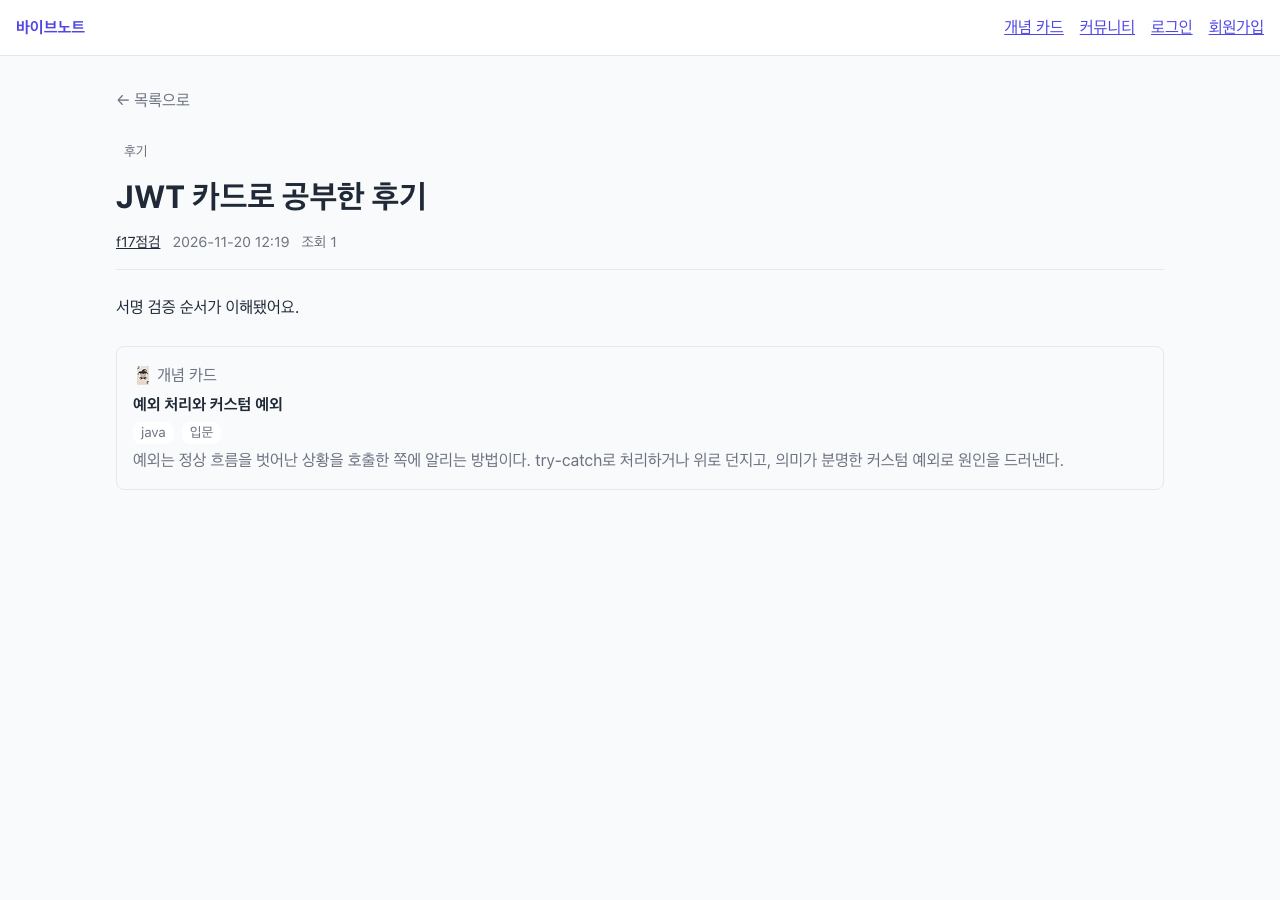
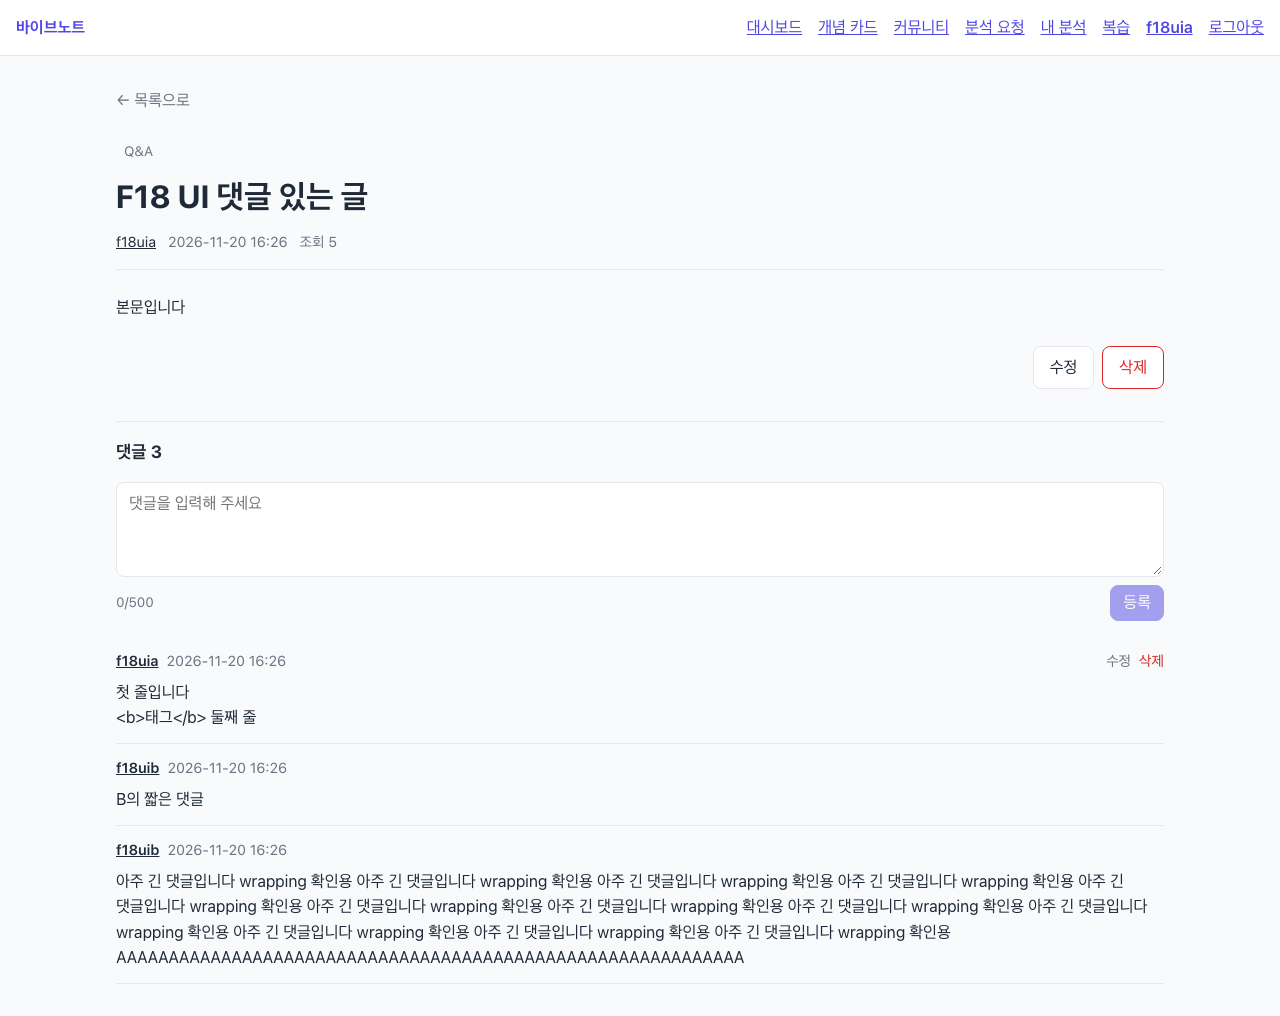
docs(F-18): SC-15 스크린샷(댓글 포함) 갱신, 체크리스트

diff --git a/docs/handoff/NOW-js.md b/docs/handoff/NOW-js.md
@@ -4,7 +4,7 @@
 > "갱신:" 줄은 `node scripts/stamp.mjs --now` 출력으로 쓴다. "바로 다음 할 일"은 다른 PC에서 맥락 없이 바로 시작할 수 있을 만큼 구체적으로 쓴다 (파일, 메서드, 테스트 이름).
 > 상대 파일(`NOW-dh.md`)은 읽기만 한다.
 
-갱신: 2026-11-20 16:07 · 작업자: JoonseobKim · PC: js-home · 브랜치: feature/F-18-comments
+갱신: 2026-11-20 16:27 · 작업자: JoonseobKim · PC: js-home · 브랜치: feature/F-18-comments
 
 ---
 
@@ -17,13 +17,13 @@ F-18 댓글 — spec **APPROVED**, `/implement` 진행 중. 이번 세션 목표
 - ✅ spec 승인·결정(오래된순 200 상한, 1~500자, 활동 없음, 모바일 글자 버튼)
 - ✅ BE AC1~10 green (BE 617 통과): `post/Comment*` + `ErrorCode.POST_003·004` + `PUBLIC_GET_PATHS` + openapi.json, conventions 3절
 - ✅ FE AC11~13 green (verify fe 통과): `api/posts.js` 함수 4개, `components/community/CommentForm·CommentItem·PostComments.vue`, `PostDetailView`에 댓글 절
-- ✅ contract-checker 실질 0건, 산출물 02 UC41·06 SC-15 문구 반영 (스크린샷은 아직)
+- ✅ contract-checker 실질 0건, 산출물 02 UC41·06 SC-15 문구·스크린샷 반영
+- ✅ ui-verifier 통과 (데스크톱·375px, 가로 스크롤 없음, 콘솔 에러 없음). 로컬 DB에 테스트 회원 f18-ui-a·b, 글 4·5번
 
 ## 바로 다음 할 일
 
-1. BE 재시작 필요: 8080에 11-19에 띄운 bootRun(댓글 API 없음)이 떠 있다 → 끄고 `cd backend && ./gradlew bootRun --args='--spring.profiles.active=local'`
-2. ui-verifier: `/community/{id}` 댓글 있음·없음·내 댓글 수정 중, 데스크톱·375px → 스크린샷 `docs/산출물/screens/SC-15-detail-{desktop,mobile}.png` 갱신(댓글 포함)
-3. `/pr-review`. PR 본문: 수정은 내용이 같으면 UPDATE 생략, 다르면 `updated_at`을 앱 Clock으로 (spec 4절 "ON UPDATE" 문구와 다름), @whans1996 멘션(SecurityConfig·ErrorCode)
+1. `/pr-review` (새 세션 권장). PR 본문: 수정은 내용이 같으면 UPDATE 생략, 다르면 `updated_at`을 앱 Clock으로 (spec 4절 "ON UPDATE" 문구와 다름, #17 회피), @whans1996 멘션(SecurityConfig·ErrorCode 공통 파일)
+2. contract-checker 경미 1건: `CommentRequest.content` openapi `minLength: 0` (`@NotBlank`로 막음, F-17 PostRequest와 같음 → 그대로 둠)
 
 ## 막힌 점 / 결정 필요
 

diff --git a/docs/specs/F-18-comments.md b/docs/specs/F-18-comments.md
@@ -179,8 +179,8 @@
 - [x] FE 구현 (green): `api/posts.js` 함수 4개, 컴포넌트 3개, `PostDetailView` 댓글 절
 - [x] Swagger 어노테이션 + `docs/api/openapi.json` 갱신
 - [x] contract-checker 통과
-- [ ] ui-verifier 통과 (FE 변경 시, 데스크톱·모바일)
+- [x] ui-verifier 통과 (FE 변경 시, 데스크톱·모바일)
 - [ ] reviewer 지적 사항 반영
-- [ ] 산출물 반영: `06-화면설계서.md` SC-15 "F-18에서 정할 것"(정렬·페이지)·모바일 버튼 문구 + 스크린샷, `docs/conventions.md` 3절 POST 코드, `02-유스케이스.md` UC41 "기획 기준" 표시 정리
+- [x] 산출물 반영: `06-화면설계서.md` SC-15 "F-18에서 정할 것"(정렬·페이지)·모바일 버튼 문구 + 스크린샷, `docs/conventions.md` 3절 POST 코드, `02-유스케이스.md` UC41 "기획 기준" 표시 정리
 - [ ] PR CI 초록
 - [ ] 상태 DONE (PR 머지 후)

diff --git a/docs/산출물/06-화면설계서.md b/docs/산출물/06-화면설계서.md
@@ -430,7 +430,7 @@ flowchart LR
 
 | 데스크톱 (1280px) | 모바일 (375px) |
 |---|---|
-| <img src="screens/SC-15-detail-desktop.png" width="480"> (F-17 카드 첨부·내 글, 댓글은 F-18) | <img src="screens/SC-15-detail-mobile.png" width="200"> |
+| <img src="screens/SC-15-detail-desktop.png" width="480"> (내 글·내 댓글, 댓글 3개 · F-18) | <img src="screens/SC-15-detail-mobile.png" width="200"> |
 
 ### SC-16 게시글 작성·수정 (`/community/write`, 수정 `/community/:id/edit`, F-17)
 
